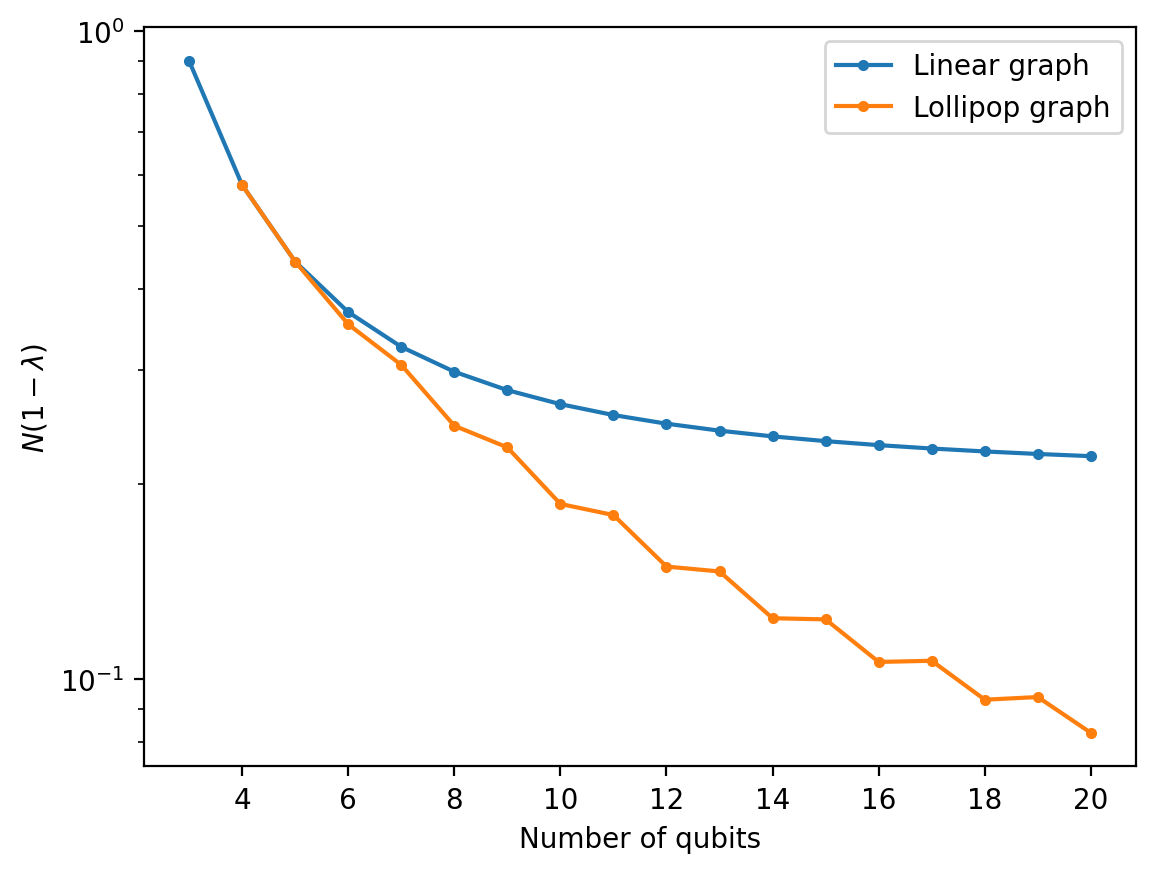
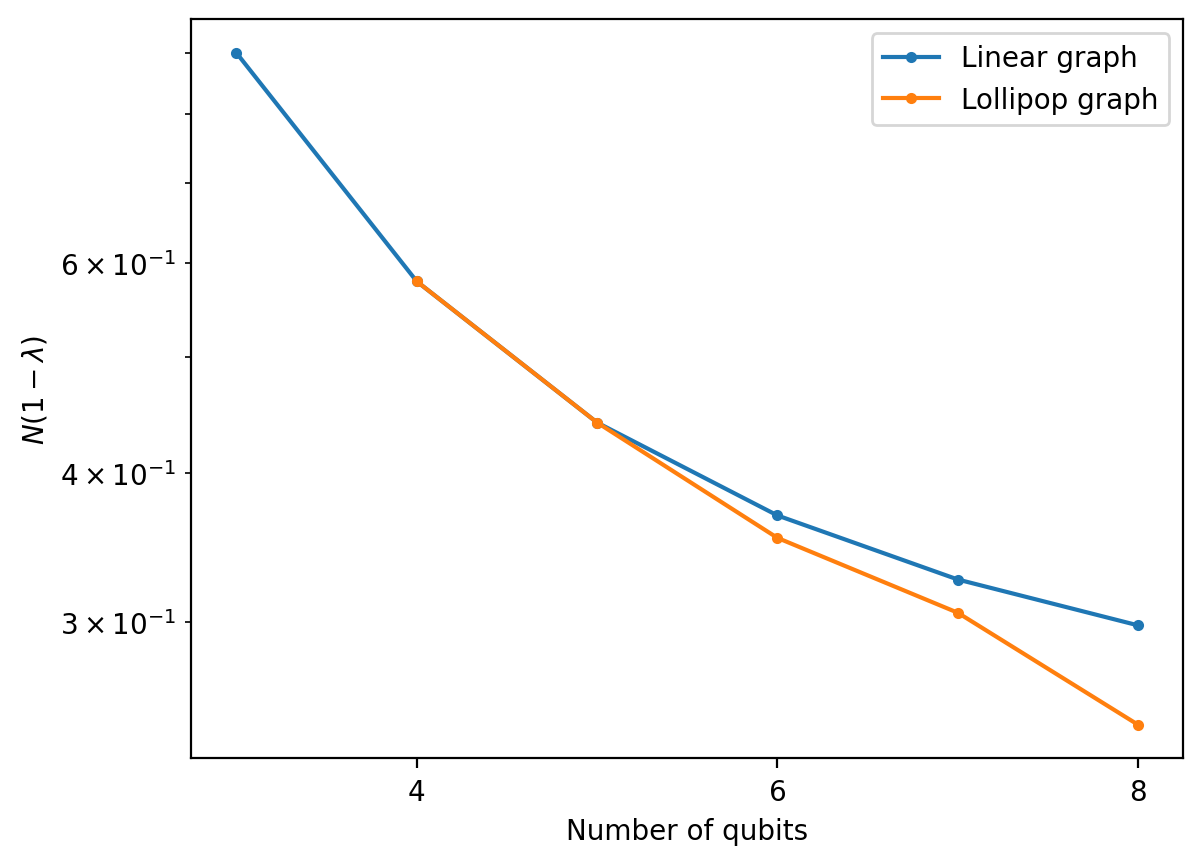
README: list reproduced figures

diff --git a/README.md b/README.md
@@ -1,3 +1,3 @@
 # no-censoring-inequalities
 
-This repo contains code to reproduce Figures X, Y, Z of [arXiv:2502.15995](https://arxiv.org/abs/2502.15995). Multiplicative error calculations use an algorithm similar to that described in [arXiv:2510.23726](https://arxiv.org/abs/2510.23726).
+This repo contains code to reproduce Figures 1b, 1c, 3, 4b, 5, 6, and 7b of [arXiv:2502.15995](https://arxiv.org/abs/2502.15995). Multiplicative error calculations use an algorithm similar to that described in [arXiv:2510.23726](https://arxiv.org/abs/2510.23726).
